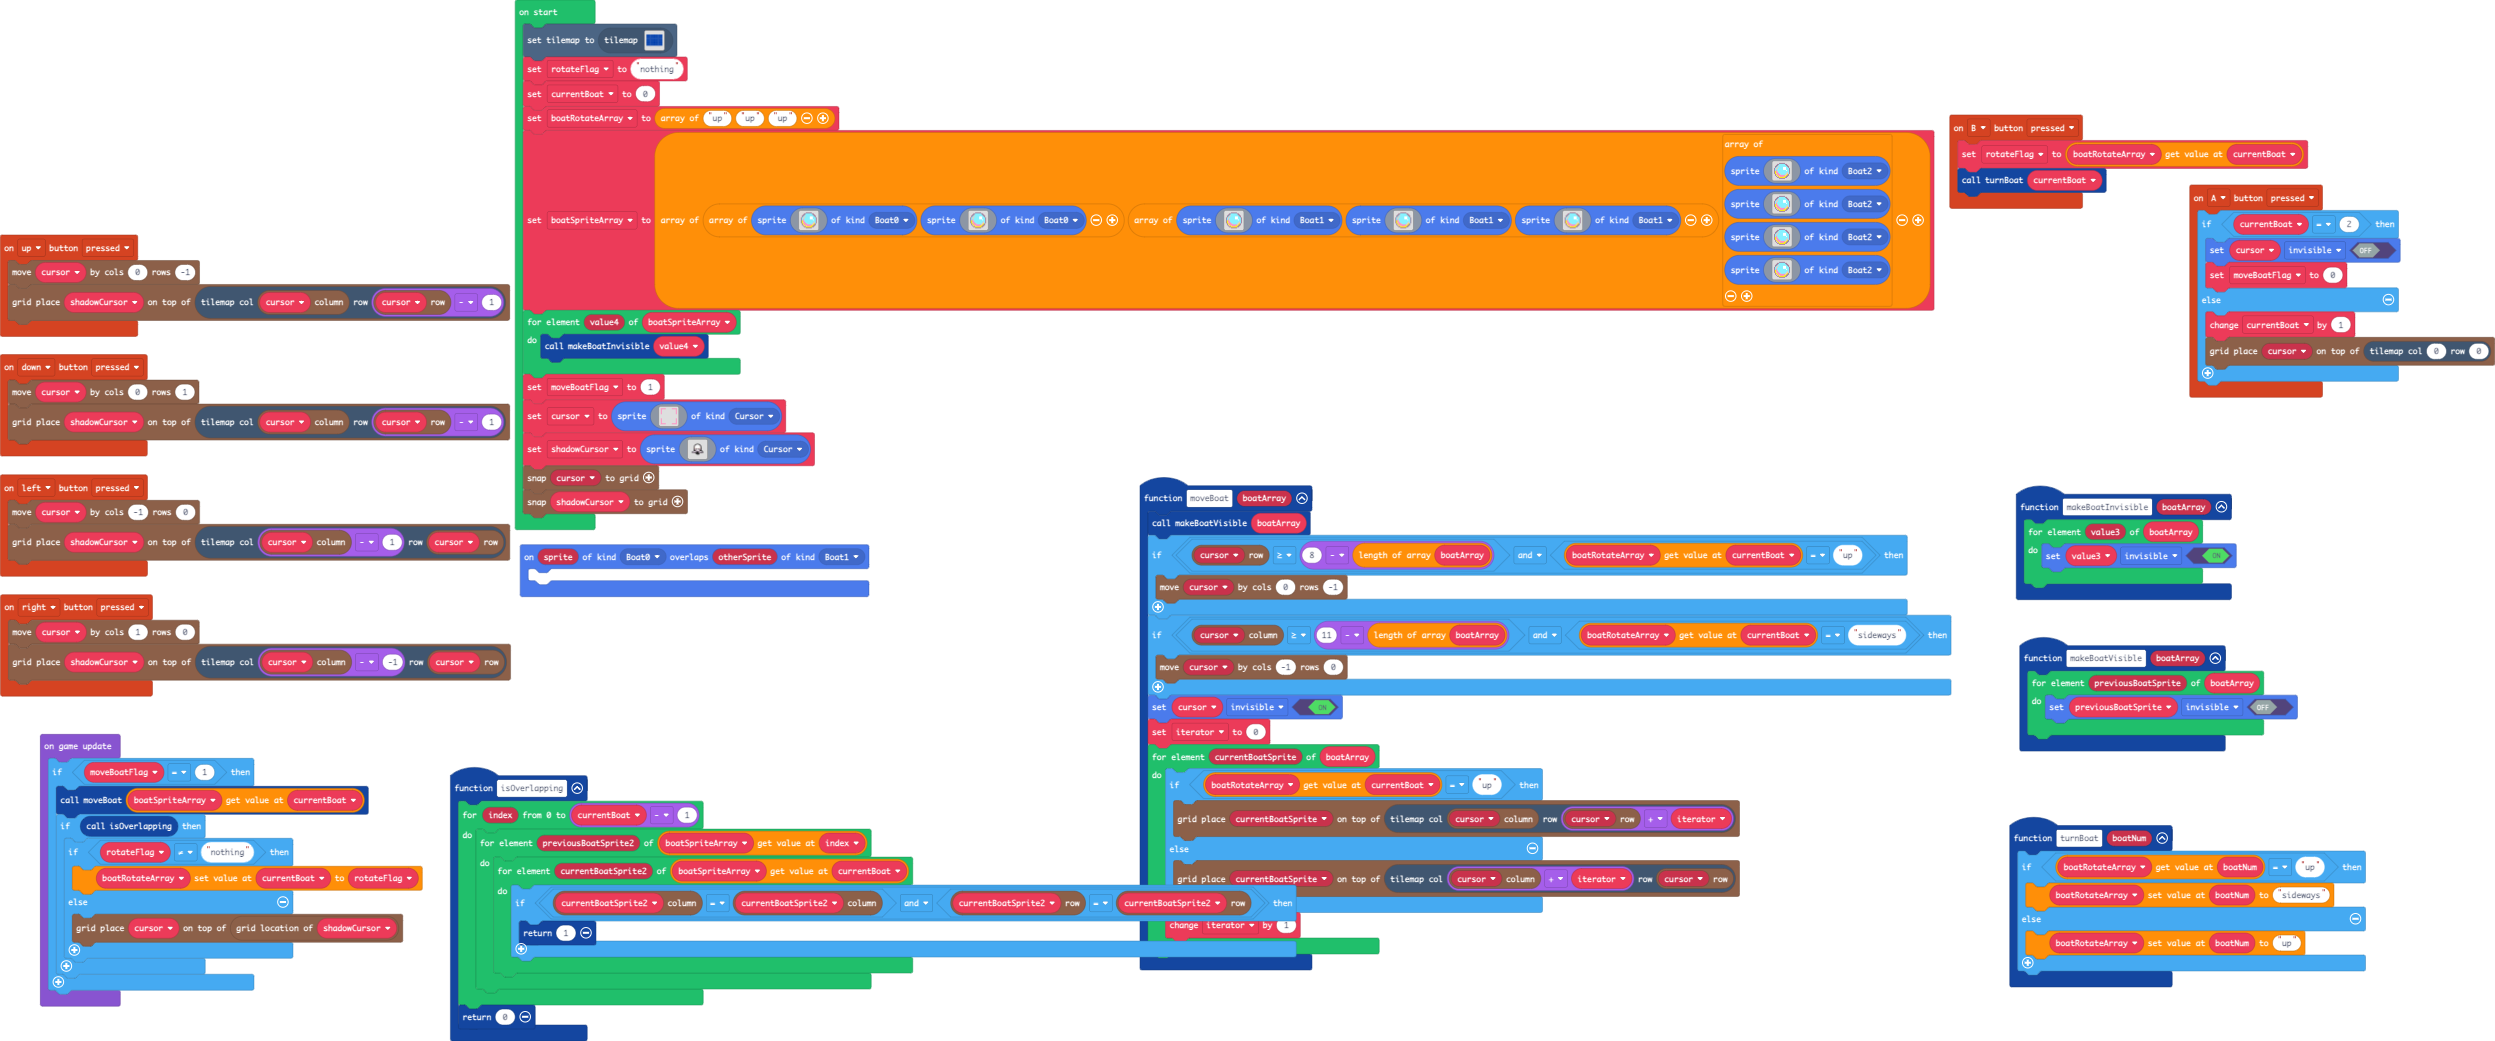
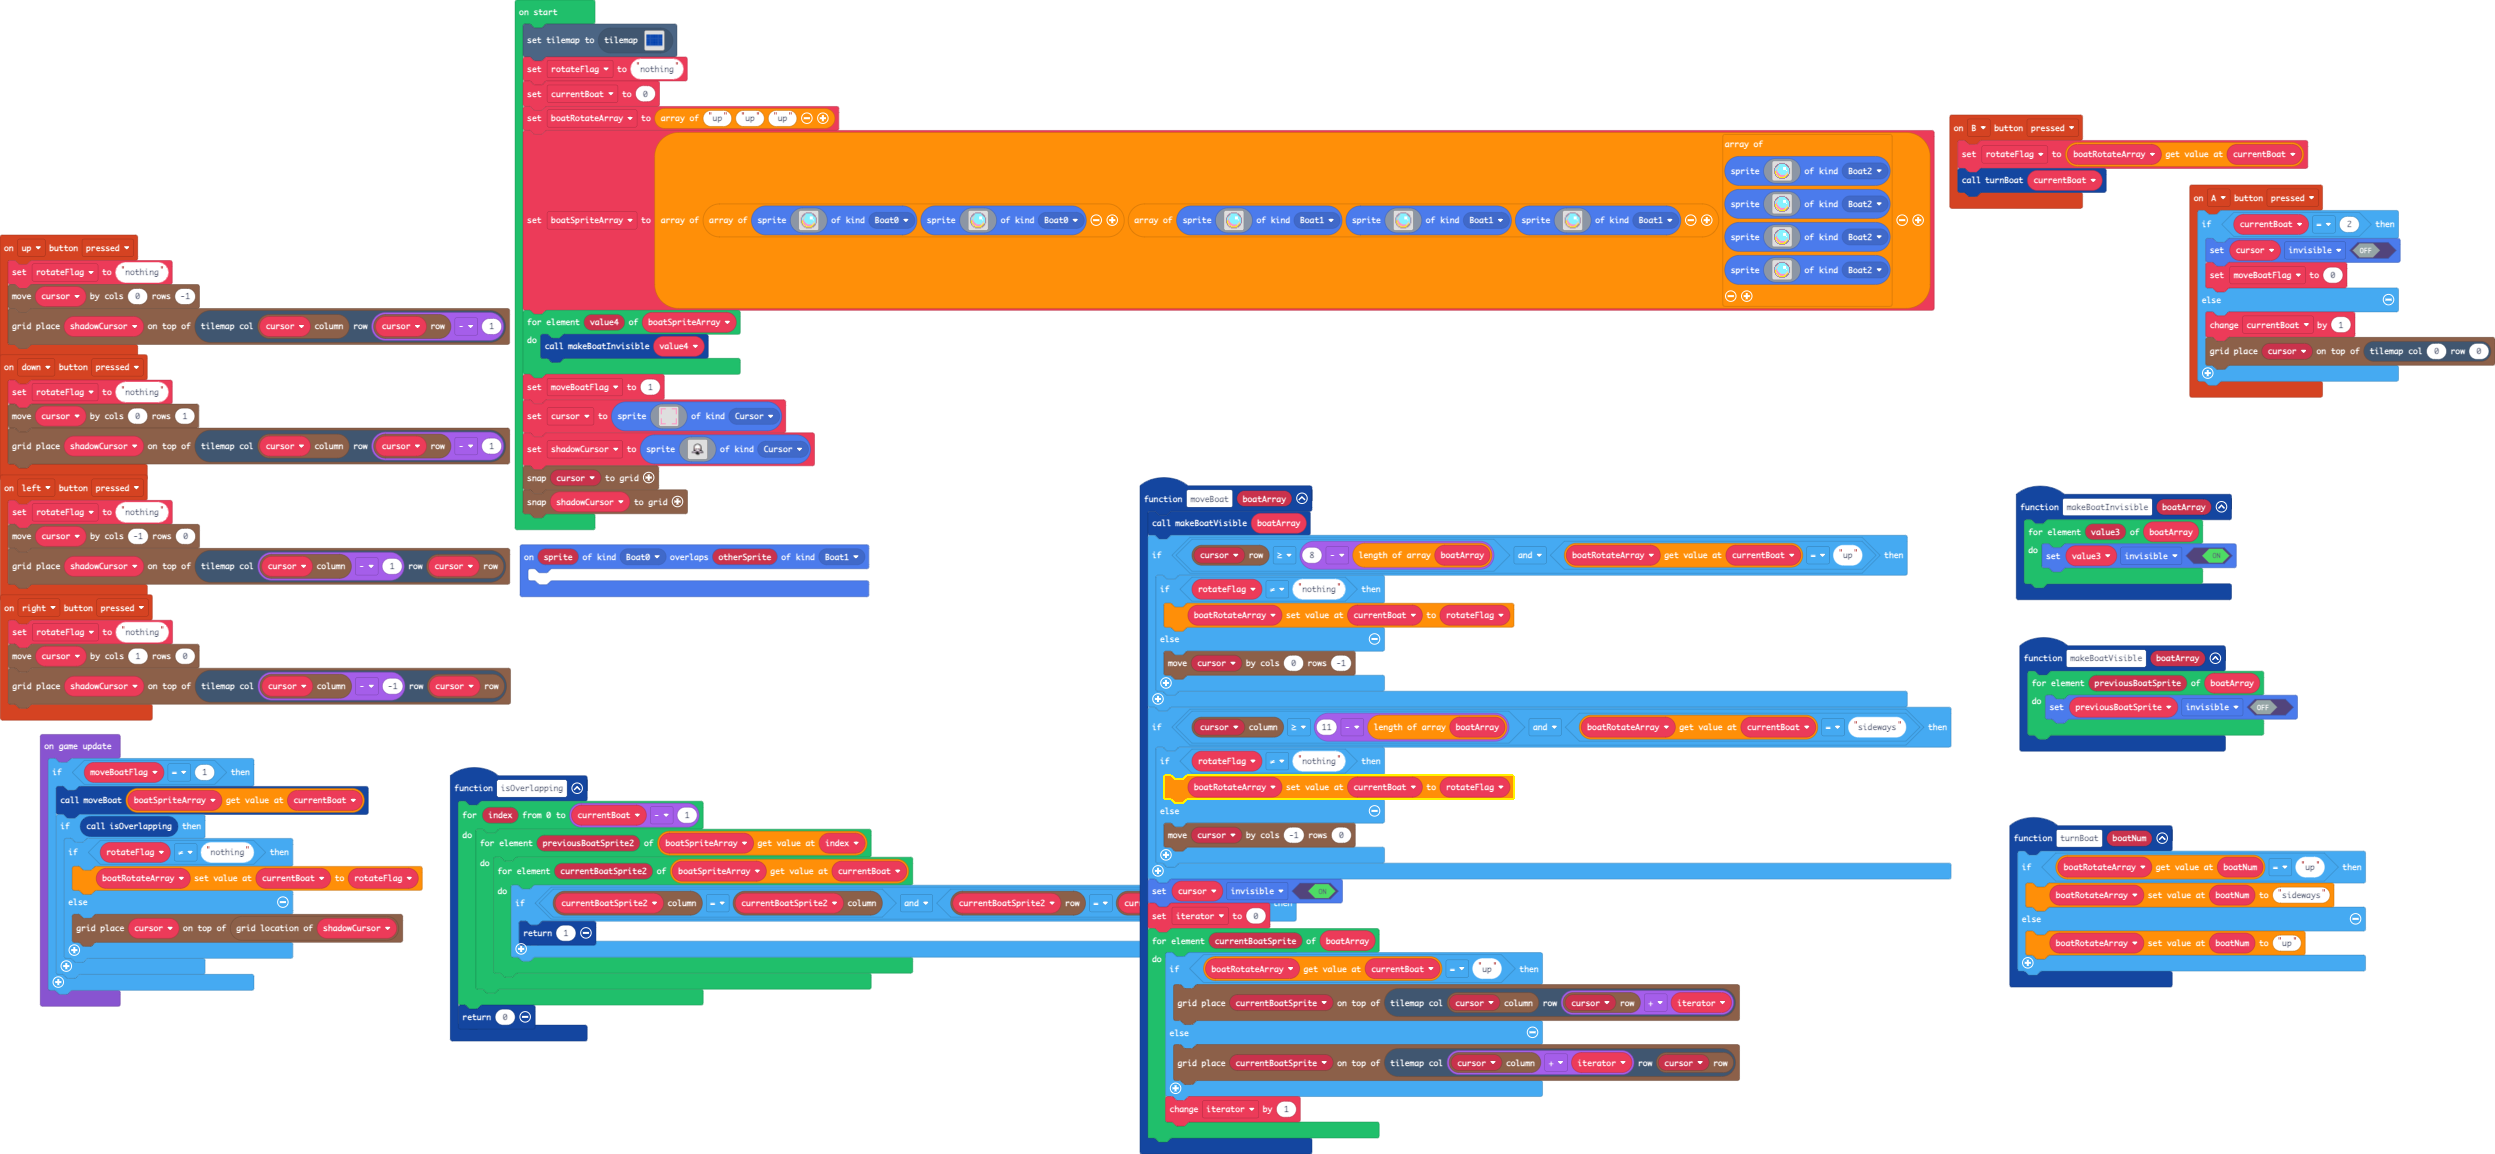
fixed rotate bug (bottom screen)

diff --git a/main.ts b/main.ts
@@ -5,6 +5,7 @@ namespace SpriteKind {
     export const Boat2 = SpriteKind.create()
 }
 controller.up.onEvent(ControllerButtonEvent.Pressed, function () {
+    rotateFlag = "nothing"
     grid.move(cursor, 0, -1)
     grid.place(shadowCursor, tiles.getTileLocation(grid.spriteCol(cursor), grid.spriteRow(cursor) - 1))
 })
@@ -30,20 +31,30 @@ controller.A.onEvent(ControllerButtonEvent.Pressed, function () {
     }
 })
 controller.left.onEvent(ControllerButtonEvent.Pressed, function () {
+    rotateFlag = "nothing"
     grid.move(cursor, -1, 0)
     grid.place(shadowCursor, tiles.getTileLocation(grid.spriteCol(cursor) - 1, grid.spriteRow(cursor)))
 })
 controller.right.onEvent(ControllerButtonEvent.Pressed, function () {
+    rotateFlag = "nothing"
     grid.move(cursor, 1, 0)
     grid.place(shadowCursor, tiles.getTileLocation(grid.spriteCol(cursor) - -1, grid.spriteRow(cursor)))
 })
 function moveBoat (boatArray: any[]) {
     makeBoatVisible(boatArray)
     if (grid.spriteRow(cursor) >= 8 - boatArray.length && boatRotateArray[currentBoat] == "up") {
-        grid.move(cursor, 0, -1)
+        if (rotateFlag != "nothing") {
+            boatRotateArray[currentBoat] = rotateFlag
+        } else {
+            grid.move(cursor, 0, -1)
+        }
     }
     if (grid.spriteCol(cursor) >= 11 - boatArray.length && boatRotateArray[currentBoat] == "sideways") {
-        grid.move(cursor, -1, 0)
+        if (rotateFlag != "nothing") {
+            boatRotateArray[currentBoat] = rotateFlag
+        } else {
+            grid.move(cursor, -1, 0)
+        }
     }
     cursor.setFlag(SpriteFlag.Invisible, true)
     iterator = 0
@@ -57,6 +68,7 @@ function moveBoat (boatArray: any[]) {
     }
 }
 controller.down.onEvent(ControllerButtonEvent.Pressed, function () {
+    rotateFlag = "nothing"
     grid.move(cursor, 0, 1)
     grid.place(shadowCursor, tiles.getTileLocation(grid.spriteCol(cursor), grid.spriteRow(cursor) - 1))
 })
